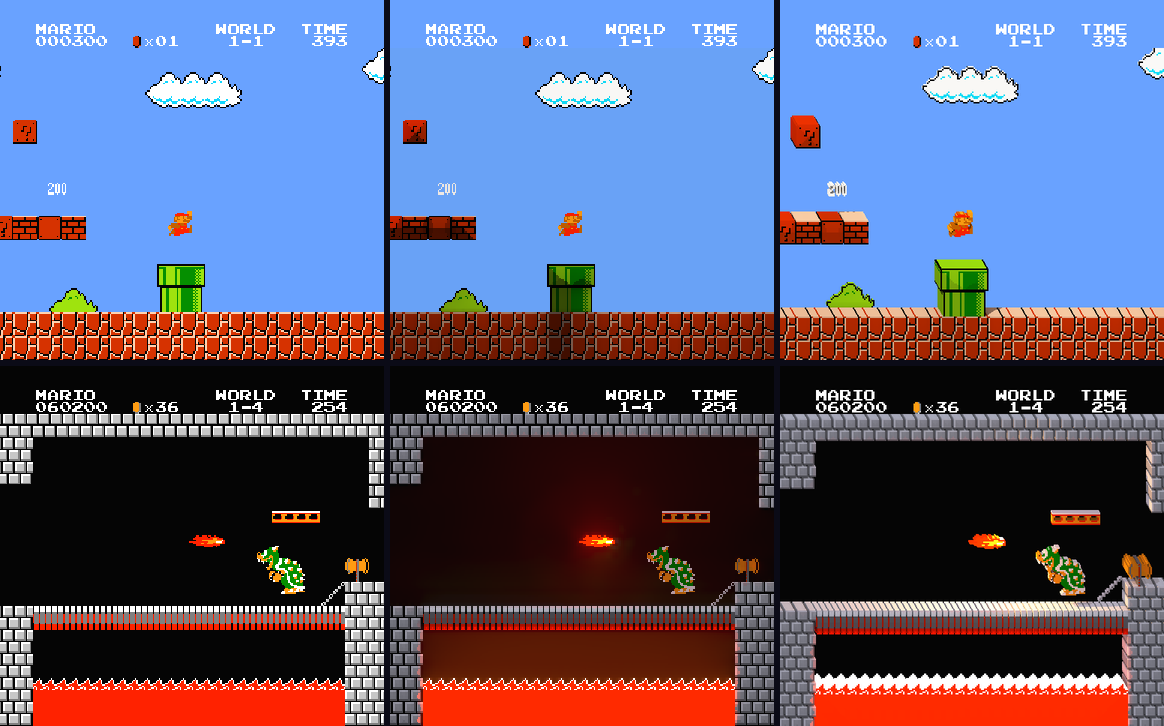
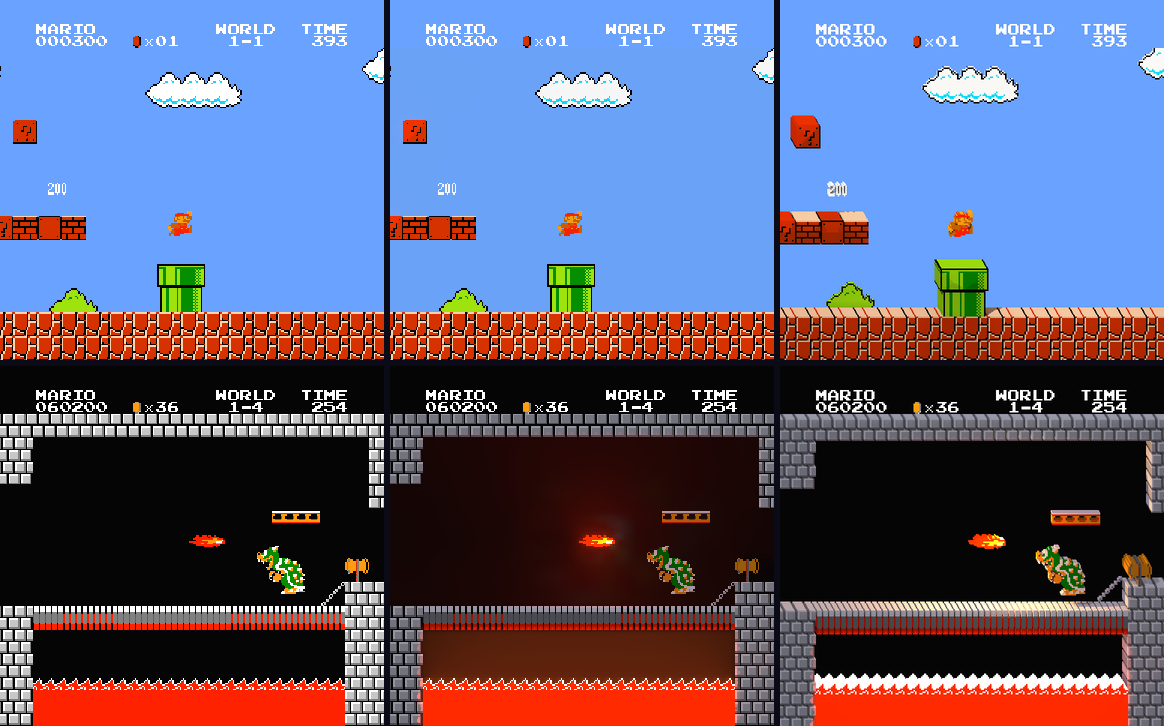
Themes: no sky light in 2D, and no shimmer while scrolling (#13)
* Upgrade to MoonBit 0.10.17

The pinned 0.10.9 toolchain is no longer downloadable. The manifests move
to the moon.mod / moon.pkg format, moonbitlang/x goes to 0.5.6 (0.4.38 no
longer compiles), and the deprecated StringBuilder::new, List::add,
@list.empty and unused imports are replaced. The implicit_impl_as_method
warning is off: no code calls derived trait methods as methods.

Claude-Session: https://claude.ai/code/session_01UVLQdjMn57oQVEKRfST84Z

* Themes: 2D global illumination and 2.5D ray tracing

A THEME menu on the page draws the game's frames another way, switching
while the game runs; ORIGINAL (video.frag) stays the default and is
unchanged, still pixel for pixel equal to the software renderer.

Both themes start from a scene pass: the frame as background and sprite
layers with a material per pixel, taken from the game's block buffer (what
the player can touch, by the map's names) rather than guessed from the
picture.

- 2D global illumination: radiance cascades over a jump flood distance
  field, lit by the sky, fire, lava and coins, with one bounce.
- 2.5D ray tracing: every pixel becomes voxels at a depth its material
  gives, in a cabinet projection that keeps the play plane in place; sun and
  fire shadows and ambient occlusion are traced through the voxels, with the
  2D light as ambient.

video.frag can be included as a library (NES_LIBRARY) for the theme
shaders. tests/web/themes.cjs draws replay frames with every theme and fails
[…]

diff --git a/web/themes/light.js b/web/themes/light.js
@@ -1,7 +1,8 @@
-// 2D global illumination: the scene lit by the sky and by what glows (fire,
-// lava, coins), with soft shadows and one bounce, by radiance cascades over
-// the distance field of a jump flood. The 2.5D theme (voxel.js) uses the
-// same light.
+// 2D global illumination: the scene lit by what glows (fire, lava, coins,
+// question blocks), with soft shadows and one bounce, by radiance cascades
+// over the distance field of a jump flood. Daylight is even, as in the game.
+// The 2.5D theme (voxel.js) uses the same light with the sky as a light
+// source too, for shade under overhangs.
 
 import {
     SCENE_WIDTH, SCENE_HEIGHT, createScene, createFloatTexture, createFramebuffer, requireFloatTargets,
@@ -16,14 +17,19 @@ const JUMP_FLOOD_STEPS = [256, 128, 64, 32, 16, 8, 4, 2, 1];
 // sky and the ground's bounce, is lit about 0.95, keeping its colours, and
 // open air about 1.1.
 const SKY = [2.12, 2.1, 2.0];
-// In dark areas, light from beyond the scene and light everywhere.
+// In dark areas, light from beyond the scene.
 const DARK_AMBIENT = [0.12, 0.12, 0.15];
-const DAY_FLOOR = [0.04, 0.04, 0.05];
-const DARK_FLOOR = [0.2, 0.2, 0.24];
+// Light everywhere, enclosed or not (not in the light texture: it is not
+// reflected), with and without the sky.
+const FLOOR = { day: [0.04, 0.04, 0.05], dark: [0.2, 0.2, 0.24] };
+const FLOOR_WITHOUT_SKY = { day: [1, 1, 1], dark: [0.3, 0.3, 0.36] };
 const BOUNCE = 0.5;
 
-// The light texture of every pixel of the scene, refreshed by draw().
-export async function createGlobalIllumination(context, scene) {
+// The light texture of every pixel of the scene, refreshed by draw(), and
+// the light to add to it everywhere (floor). With `sky`, light also comes
+// from beyond the scene (the sky in daylight), which shades what is under
+// something.
+export async function createGlobalIllumination(context, scene, { sky: withSky }) {
     const { gl } = context;
     requireFloatTargets(gl);
     const [seed, jumpFlood, cascade, surface] = await Promise.all(
@@ -49,14 +55,15 @@ export async function createGlobalIllumination(context, scene) {
     let current = 0; // the light being drawn; the other is last frame's
     const illumination = {
         get light() { return lights[current]; },
-        // The light in open space, without emitters.
+        // The light in open space, without emitters and the floor.
         open: [0, 0, 0],
+        floor: [0, 0, 0],
         draw() {
             const { dark } = backdrop(context);
-            const sky = dark ? [0, 0, 0] : SKY;
-            const ambient = dark ? DARK_AMBIENT : [0, 0, 0];
-            const floor = dark ? DARK_FLOOR : DAY_FLOOR;
-            illumination.open = sky.map((s, i) => s * 0.536 + ambient[i] + floor[i]);
+            const sky = dark || !withSky ? [0, 0, 0] : SKY;
+            const ambient = dark && withSky ? DARK_AMBIENT : [0, 0, 0];
+            illumination.floor = (withSky ? FLOOR : FLOOR_WITHOUT_SKY)[dark ? 'dark' : 'day'];
+            illumination.open = sky.map((s, i) => s * 0.536 + ambient[i]);
 
             gl.useProgram(seed);
             bindTextures(gl, seed, { u_background: scene.background, u_sprite: scene.sprite });
@@ -74,7 +81,7 @@ export async function createGlobalIllumination(context, scene) {
             gl.useProgram(cascade);
             gl.uniform3fv(uniform(cascade, 'u_sky'), sky);
             gl.uniform3fv(uniform(cascade, 'u_ambient'), ambient);
-            gl.uniform1i(uniform(cascade, 'u_scroll_delta'), scene.scrollDelta);
+            gl.uniform1i(uniform(cascade, 'u_shift'), scene.shift);
             for (let n = CASCADES - 1; n >= 0; n--) {
                 bindTextures(gl, cascade, {
                     u_seeds: seeds[source],
@@ -90,7 +97,6 @@ export async function createGlobalIllumination(context, scene) {
 
             gl.useProgram(surface);
             bindTextures(gl, surface, { u_cascade0: cascades[0], u_seeds: seeds[source] });
-            gl.uniform3fv(uniform(surface, 'u_floor'), floor);
             pass(context, surface, lightTargets[current], SCENE_WIDTH, SCENE_HEIGHT);
         },
         dispose() {
@@ -105,7 +111,7 @@ export async function createGlobalIllumination(context, scene) {
 export async function create(context) {
     const { gl, canvas } = context;
     const scene = await createScene(context);
-    const illumination = await createGlobalIllumination(context, scene);
+    const illumination = await createGlobalIllumination(context, scene, { sky: false });
     const program = await context.compile('light.frag');
 
     return {
@@ -113,13 +119,14 @@ export async function create(context) {
             sizeCanvas(canvas, 256, 240);
             scene.draw();
             illumination.draw();
-            gl.useProgram(program);
+            scene.bindOrigin(program);
             bindTextures(gl, program, {
                 u_background: scene.background,
                 u_sprite: scene.sprite,
                 u_light: illumination.light,
             });
             gl.uniform3fv(gl.getUniformLocation(program, 'u_open'), illumination.open);
+            gl.uniform3fv(gl.getUniformLocation(program, 'u_floor'), illumination.floor);
             pass(context, program, null, 256, 240);
         },
         dispose() {

diff --git a/web/themes/scene.js b/web/themes/scene.js
@@ -2,8 +2,7 @@
 // background and sprite layers with materials, from the display state and the
 // game's level data (the map names the variables it reads).
 
-export const SCENE_MARGIN = 16;
-export const SCENE_WIDTH = 288;
+export const SCENE_WIDTH = 320;
 export const SCENE_HEIGHT = 256;
 
 export function createTexture(gl, width, height, internalFormat, format, type) {
@@ -17,7 +16,7 @@ export function createTexture(gl, width, height, internalFormat, format, type) {
     return texture;
 }
 
-// A 288x256 half-float target (light, distances); needs EXT_color_buffer_float.
+// A 320x256 half-float target (light, distances); needs EXT_color_buffer_float.
 export function createFloatTexture(gl, width = SCENE_WIDTH, height = SCENE_HEIGHT) {
     return createTexture(gl, width, height, gl.RGBA16F, gl.RGBA, gl.HALF_FLOAT);
 }
@@ -99,24 +98,34 @@ export async function createScene(context) {
     const scene = {
         background,
         sprite,
-        scrollDelta: 0, // pixels scrolled since the last frame
+        origin: 16, // scene x of the screen's left edge (common.glsl)
+        shift: 0,   // where last frame had this frame's scene x, minus x
+        // Sets u_origin on a program that uses the scene.
+        bindOrigin(target) {
+            gl.useProgram(target);
+            gl.uniform1i(gl.getUniformLocation(target, 'u_origin'), scene.origin);
+        },
         draw() {
+            const position = (frame.ctrl & 1) * 256 + frame.scrollX;
+            const origin = 16 + (((position - 16) % 32) + 32) % 32;
+            const scrolled = scrollPosition === null ? 0 : ((position - scrollPosition + 768) % 512) - 256;
+            scene.shift = scrolled - (origin - scene.origin);
+            scene.origin = origin;
+            scrollPosition = position;
+
             const ram = context.ram();
             if (blockBuffers.every(address => address !== undefined)) {
                 blockBytes.set(ram.subarray(blockBuffers[0], blockBuffers[0] + 208), 0);
                 blockBytes.set(ram.subarray(blockBuffers[1], blockBuffers[1] + 208), 208);
             }
             context.bindVideo(program);
+            scene.bindOrigin(program);
             gl.uniform1i(areaKindLocation, areaKind === undefined ? -1 : ram[areaKind]);
             gl.activeTexture(gl.TEXTURE2);
             gl.bindTexture(gl.TEXTURE_2D, blocks);
             gl.texSubImage2D(gl.TEXTURE_2D, 0, 0, 0, 16, 26, gl.RED, gl.UNSIGNED_BYTE, blockBytes);
             gl.uniform1i(gl.getUniformLocation(program, 'u_blocks'), 2);
             pass(context, program, framebuffer, SCENE_WIDTH, SCENE_HEIGHT);
-
-            const position = (frame.ctrl & 1) * 256 + frame.scrollX;
-            scene.scrollDelta = scrollPosition === null ? 0 : ((position - scrollPosition + 768) % 512) - 256;
-            scrollPosition = position;
         },
         dispose() {
             [background, sprite, blocks].forEach(texture => gl.deleteTexture(texture));

diff --git a/web/themes/voxel.js b/web/themes/voxel.js
@@ -50,7 +50,7 @@ function fireLights(oam) {
 export async function create(context) {
     const { gl, canvas, frame } = context;
     const scene = await createScene(context);
-    const illumination = await createGlobalIllumination(context, scene);
+    const illumination = await createGlobalIllumination(context, scene, { sky: true });
     const program = await context.compile('voxel.frag');
     const uniform = name => gl.getUniformLocation(program, name);
     const positions = new Float32Array(MAX_LIGHTS * 4);
@@ -74,11 +74,13 @@ export async function create(context) {
             });
 
             context.bindVideo(program);
+            scene.bindOrigin(program);
             bindTextures(gl, program, {
                 u_background: scene.background,
                 u_sprite: scene.sprite,
                 u_light: illumination.light,
             });
+            gl.uniform3fv(uniform('u_floor'), illumination.floor);
             gl.uniform1f(uniform('u_scale'), scale);
             gl.uniform3fv(uniform('u_sun'), SUN);
             gl.uniform3fv(uniform('u_sun_color'), dark ? DARK_KEY_COLOR : SUN_COLOR);

diff --git a/docs/modern-runtime.md b/docs/modern-runtime.md
@@ -437,8 +437,8 @@ they decode tiles, attributes and sprites exactly as the original picture
 does.
 
 Both themes start from the scene (`scene.frag`): the frame as a background
-and a sprite layer, 16 pixels wider on each side, each pixel with a
-material. The materials come from the game, not from the picture: the block
+and a sprite layer, at least 16 pixels wider on each side, each pixel with
+a material. The materials come from the game, not from the picture: the block
 buffer (`block_buffer1`, `block_buffer2`) holds the metatiles of the two
 screens around the player that the player can touch, because the level parser
 leaves scenery out (`block_buffer_limits`). A metatile there is solid unless
@@ -446,22 +446,28 @@ leaves scenery out (`block_buffer_limits`). A metatile there is solid unless
 block; the rest of the opaque background is scenery. Lava is the castle's
 water tiles, and fire is the fireball and flame sprite tiles. The scene reads
 these by the map's names, so a map without them leaves everything scenery.
+The scene is anchored to the level, not to the screen: its left edge moves
+in steps of 32 pixels, so that the light's probes (2 to 32 pixels apart) stay
+on the same spots of the level as it scrolls. Anchored to the screen, the
+level slid across them and the light shimmered while scrolling.
 
 - 2D global illumination (`light.js`): a jump flood (`jfa.frag`) gives every
   pixel its nearest occluder and nearest free pixel; radiance cascades
   (`cascade.frag`) march rays through that distance field, from the top
-  cascade down, each merging the one above; rays that leave the scene see the
-  sky, which dark areas (a black backdrop) do not have. Occluders return
-  their own light and last frame's light on them, reflected once (shifted by
-  the scroll). An occluder pixel takes the light of its nearest free pixel.
-  The backdrop is the sky and is not lit.
+  cascade down, each merging the one above. Fire, lava, coins and question
+  blocks emit light; occluders also return last frame's light on them,
+  reflected once (shifted by the scroll). An occluder pixel takes the light of
+  its nearest free pixel. Light that reaches everywhere is added after, and
+  is not reflected: daylight is even, as in the game, and dark areas (a black
+  backdrop) are dim. The backdrop is not lit.
 - 2.5D ray tracing (`voxel.js`): each opaque pixel is a column of voxels
   over the depths its material gives, seen through a cabinet projection, so
   the play plane is where the game draws it. Rays walk the pixel grid
   checking the depths they cross each cell at. The sun and fire sprites
   (point lights, merged per flame) cast shadow rays, five short rays give
   ambient occlusion, and the 2D global illumination is the light from
-  everywhere else.
+  everywhere else; here rays that leave the scene see the sky (in daylight),
+  so what is under something is shaded.
 
 The status bar is drawn as it is. `tests/web/themes.cjs` draws replay frames
 with every theme and fails on WebGL errors. The themes are a presentation

diff --git a/README.md b/README.md
@@ -83,8 +83,9 @@ DEBUG TILES draws with generated placeholder tiles instead of the ROM's, and
 THEME draws the same frames differently (WebGL2; ORIGINAL is the game's own
 picture):
 
-- 2D GLOBAL ILLUMINATION: the sky, fire, lava and coins light the scene,
-  with soft shadows and a bounce, by radiance cascades;
+- 2D GLOBAL ILLUMINATION: fire, lava, coins and question blocks light the
+  scene, with soft shadows and a bounce, by radiance cascades; daylight
+  stays as in the game;
 - 2.5D RAY TRACING: every pixel becomes voxels, seen from slightly above,
   with sun and fire shadows traced through them.
 
